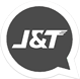
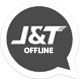
-- w

Changed region(s): [[0.125, 0.3291, 0.85, 0.6835]]

diff --git a/cache/stuff.php b/cache/stuff.php
@@ -1,5 +1,5 @@
 <?php
[2 lines of base64/hex data omitted]
 
 $HD_ANSWERS = unserialize(gzuncompress(base64_decode($answergserialize)));
 

diff --git a/cache/widget1.php b/cache/widget1.php
@@ -9,7 +9,7 @@ $jakwidget['lang'] = 'en';
 $jakwidget['widget'] = 4;
 $jakwidget['hideoff'] = 0;
 $jakwidget['buttonimg'] = 'jnt_on.png';
-$jakwidget['mobilebuttonimg'] = 'jnt_on.png';
+$jakwidget['mobilebuttonimg'] = 'jntmob_on.png';
 $jakwidget['slideimg'] = '';
 $jakwidget['floatpopup'] = 1;
 $jakwidget['chat_direct'] = 1;
